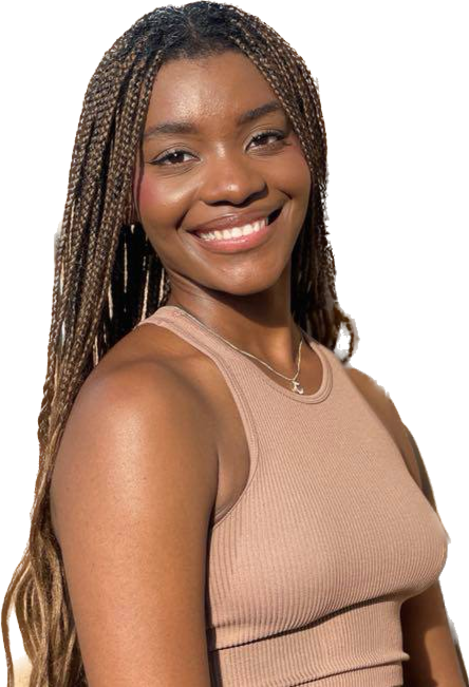
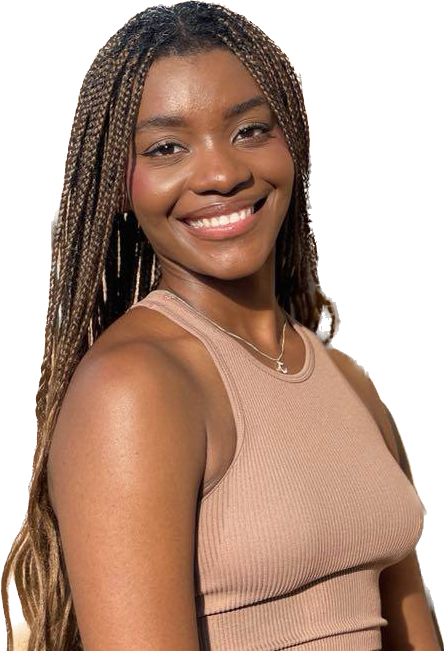
beta2

diff --git a/index.html b/index.html
@@ -863,24 +863,7 @@
                   <img
                     src="assets/img/team/mofe.png"
                     alt=""
-                    style="
-                      -webkit-clip-path: polygon(
-                        50% 0%,
-                        100% 25%,
-                        100% 75%,
-                        50% 100%,
-                        0% 75%,
-                        0% 25%
-                      );
-                      clip-path: polygon(
-                        50% 0%,
-                        100% 25%,
-                        100% 75%,
-                        50% 100%,
-                        0% 75%,
-                        0% 25%
-                      );
-                    "
+                    style="width: 300px; height: 400px"
                   />
                 </div>
                 <div class="info mt-30">
@@ -897,24 +880,7 @@
                   <img
                     src="assets/img/team/t2.jpg"
                     alt=""
-                    style="
-                      -webkit-clip-path: polygon(
-                        50% 0%,
-                        100% 25%,
-                        100% 75%,
-                        50% 100%,
-                        0% 75%,
-                        0% 25%
-                      );
-                      clip-path: polygon(
-                        50% 0%,
-                        100% 25%,
-                        100% 75%,
-                        50% 100%,
-                        0% 75%,
-                        0% 25%
-                      );
-                    "
+                    style="width: 300px; height: 400px"
                   />
                 </div>
                 <div class="info mt-30">
@@ -925,64 +891,14 @@
                 </div>
               </div>
             </div>
-            <div class="col-lg-4 col-md-6 lg-marg">
-              <div class="item">
-                <div class="img">
-                  <img
-                    src="assets/img/team/t1.jpg"
-                    alt=""
-                    style="
-                      -webkit-clip-path: polygon(
-                        50% 0%,
-                        100% 25%,
-                        100% 75%,
-                        50% 100%,
-                        0% 75%,
-                        0% 25%
-                      );
-                      clip-path: polygon(
-                        50% 0%,
-                        100% 25%,
-                        100% 75%,
-                        50% 100%,
-                        0% 75%,
-                        0% 25%
-                      );
-                    "
-                  />
-                </div>
-                <div class="info mt-30">
-                  <h6>Yusuf Awari</h6>
-                  <span class="sub-title mb-0 mt-10 opacity-7"
-                    >Chief Technology & Knowledge Officer
-                  </span>
-                </div>
-              </div>
-            </div>
+
             <div class="col-lg-4 col-md-6 lg-marg">
               <div class="item md-mb50">
                 <div class="img">
                   <img
                     src="assets/img/team/t3.jpg"
                     alt=""
-                    style="
-                      -webkit-clip-path: polygon(
-                        50% 0%,
-                        100% 25%,
-                        100% 75%,
-                        50% 100%,
-                        0% 75%,
-                        0% 25%
-                      );
-                      clip-path: polygon(
-                        50% 0%,
-                        100% 25%,
-                        100% 75%,
-                        50% 100%,
-                        0% 75%,
-                        0% 25%
-                      );
-                    "
+                    style="width: 300px; height: 400px"
                   />
                 </div>
                 <div class="info mt-30">
@@ -997,26 +913,9 @@
               <div class="item md-mb50">
                 <div class="img">
                   <img
-                    src="assets/img/team/t4.jpg"
+                    src="assets/img/team/konu.png"
                     alt=""
-                    style="
-                      -webkit-clip-path: polygon(
-                        50% 0%,
-                        100% 25%,
-                        100% 75%,
-                        50% 100%,
-                        0% 75%,
-                        0% 25%
-                      );
-                      clip-path: polygon(
-                        50% 0%,
-                        100% 25%,
-                        100% 75%,
-                        50% 100%,
-                        0% 75%,
-                        0% 25%
-                      );
-                    "
+                    style="width: 400px; height: 400px"
                   />
                 </div>
                 <div class="info mt-30">
@@ -1033,8 +932,26 @@
                   <img
                     src="assets/img/team/chidera.png"
                     alt=""
-                    style="
-                      -webkit-clip-path: polygon(
+                    style="width: 300px; height: 400px"
+                  />
+                </div>
+                <div class="info mt-30">
+                  <h6>Chidera Nwankwo</h6>
+                  <span class="sub-title mb-0 mt-10 opacity-7">
+                    Chief Product & Compliance Officer</span
+                  >
+                </div>
+              </div>
+            </div>
+            <div class="col-lg-4 col-md-6 lg-marg">
+              <div class="item">
+                <div class="img">
+                  <img
+                    src="assets/img/team/awari.png"
+                    alt=""
+                    style="width: 300px; height: 400px"
+                  />
+                  <!-- -webkit-clip-path: polygon(
                         50% 0%,
                         100% 25%,
                         100% 75%,
@@ -1049,15 +966,13 @@
                         50% 100%,
                         0% 75%,
                         0% 25%
-                      );
-                    "
-                  />
+                      ); -->
                 </div>
                 <div class="info mt-30">
-                  <h6>Chidera Nwankwo</h6>
-                  <span class="sub-title mb-0 mt-10 opacity-7">
-                    Chief Product & Compliance Officer</span
-                  >
+                  <h6>Yusuf Awari</h6>
+                  <span class="sub-title mb-0 mt-10 opacity-7"
+                    >Chief Technology & Knowledge Officer
+                  </span>
                 </div>
               </div>
             </div>
@@ -1087,7 +1002,10 @@
           </div>
           <div class="col-lg-5 d-flex align-items-end">
             <div class="subs full-width">
-              <form action="contact.php">
+              <form
+                action="https://formsubmit.co/manonfireeverytime@gmail.com"
+                method="POST"
+              >
                 <div class="form-group">
                   <input
                     type="email"

diff --git a/about.html b/about.html
@@ -227,7 +227,7 @@
                           <div class="col-lg-3 valign">
                             <div class="cle-img">
                               <img
-                                src="assets/img/team/t2.jpg"
+                                src="assets/img/team/mofe.png"
                                 alt=""
                                 class=""
                               />
@@ -961,7 +961,10 @@
           </div>
           <div class="col-lg-5 d-flex align-items-end">
             <div class="subs full-width">
-              <form action="contact.php">
+              <form
+                action="https://formsubmit.co/manonfireeverytime@gmail.com"
+                method="POST"
+              >
                 <div class="form-group">
                   <input
                     type="email"

diff --git a/contact.html b/contact.html
@@ -641,7 +641,10 @@
           </div>
           <div class="col-lg-5 d-flex align-items-end">
             <div class="subs full-width">
-              <form action="contact.php">
+              <form
+                action="https://formsubmit.co/manonfireeverytime@gmail.com"
+                method="POST"
+              >
                 <div class="form-group">
                   <input
                     type="email"

diff --git a/fullstack.html b/fullstack.html
@@ -581,7 +581,10 @@
           </div>
           <div class="col-lg-5 d-flex align-items-end">
             <div class="subs full-width">
-              <form action="contact.php">
+              <form
+                action="https://formsubmit.co/manonfireeverytime@gmail.com"
+                method="POST"
+              >
                 <div class="form-group">
                   <input
                     type="email"

diff --git a/portfolio.html b/portfolio.html
@@ -672,7 +672,10 @@
           </div>
           <div class="col-lg-5 d-flex align-items-end">
             <div class="subs full-width">
-              <form action="contact.php">
+              <form
+                action="https://formsubmit.co/manonfireeverytime@gmail.com"
+                method="POST"
+              >
                 <div class="form-group">
                   <input
                     type="email"

diff --git a/project-details.html b/project-details.html
@@ -403,7 +403,10 @@
           </div>
           <div class="col-lg-5 d-flex align-items-end">
             <div class="subs full-width">
-              <form action="contact.php">
+              <form
+                action="https://formsubmit.co/manonfireeverytime@gmail.com"
+                method="POST"
+              >
                 <div class="form-group">
                   <input
                     type="email"

diff --git a/uiux.html b/uiux.html
@@ -581,7 +581,10 @@
           </div>
           <div class="col-lg-5 d-flex align-items-end">
             <div class="subs full-width">
-              <form action="contact.php">
+              <form
+                action="https://formsubmit.co/manonfireeverytime@gmail.com"
+                method="POST"
+              >
                 <div class="form-group">
                   <input
                     type="email"

diff --git a/video.html b/video.html
@@ -582,7 +582,10 @@
           </div>
           <div class="col-lg-5 d-flex align-items-end">
             <div class="subs full-width">
-              <form action="contact.php">
+              <form
+                action="https://formsubmit.co/manonfireeverytime@gmail.com"
+                method="POST"
+              >
                 <div class="form-group">
                   <input
                     type="email"
